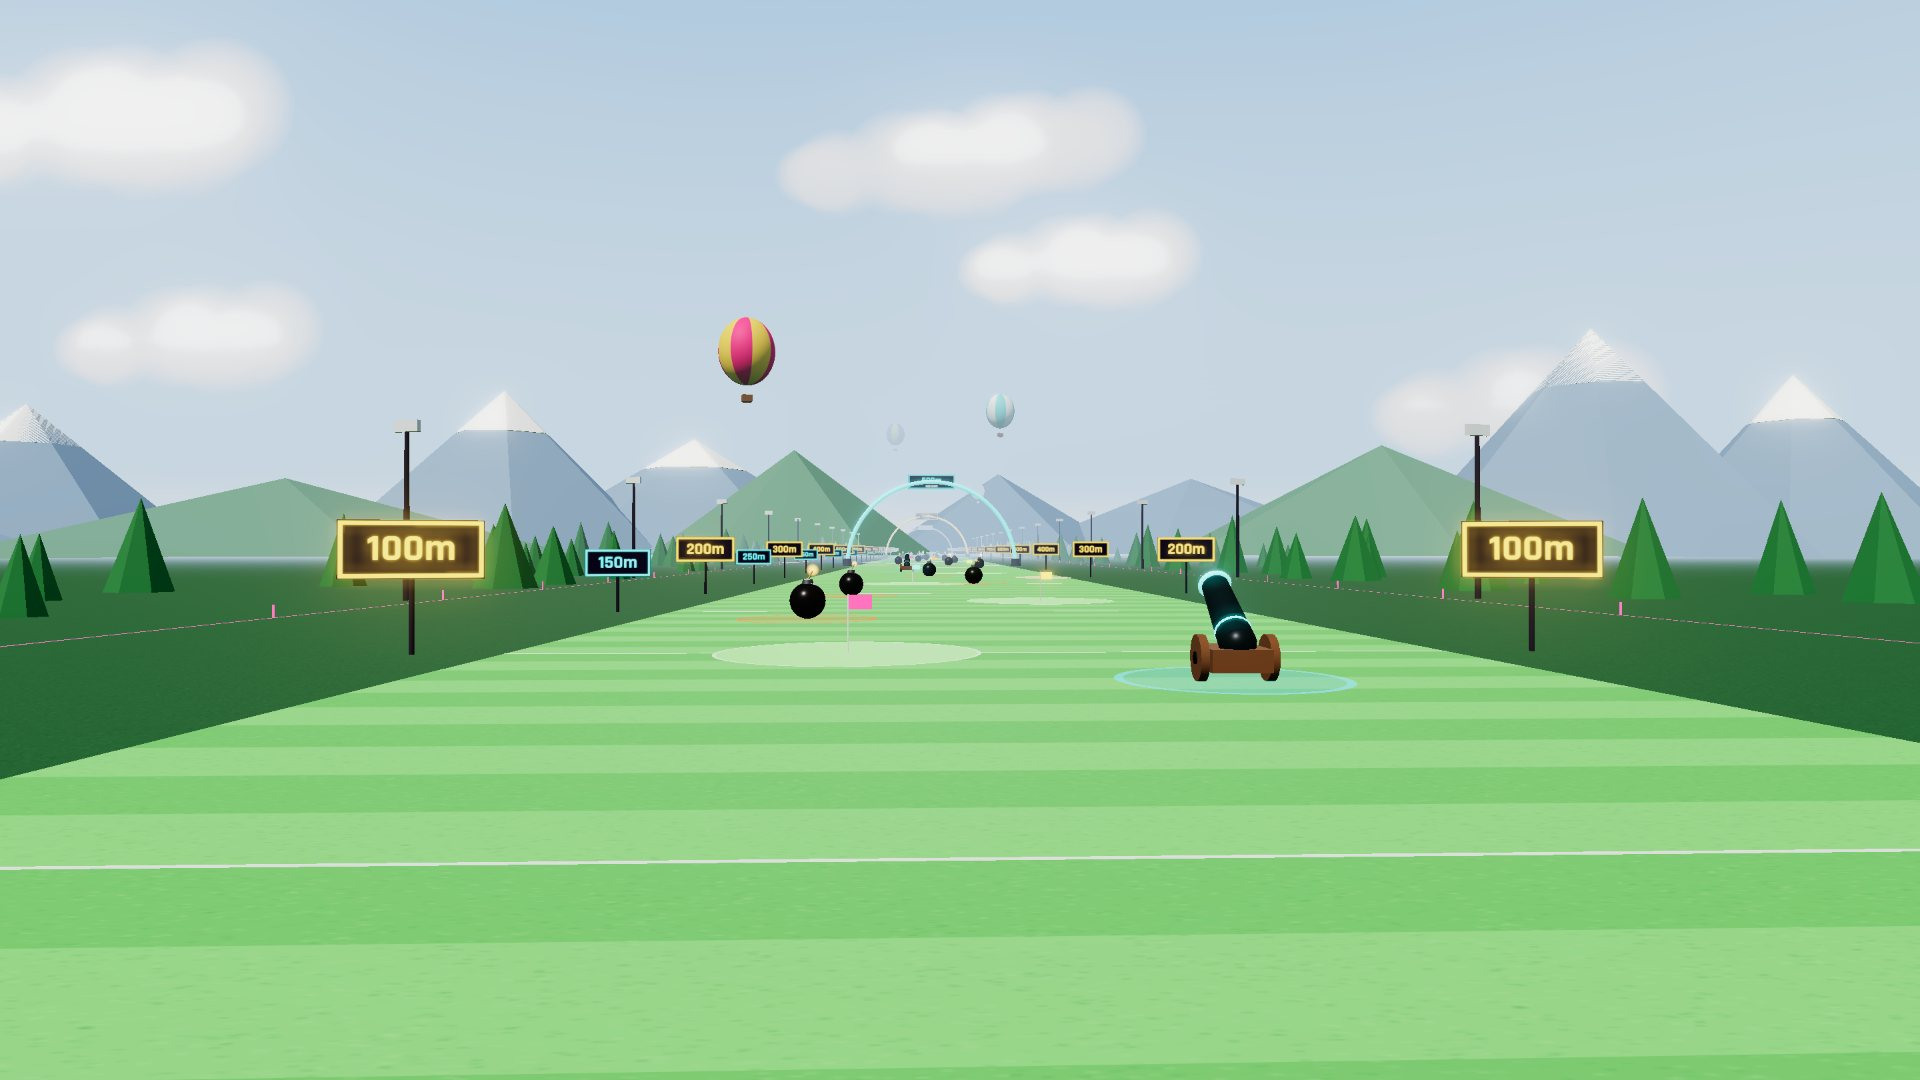
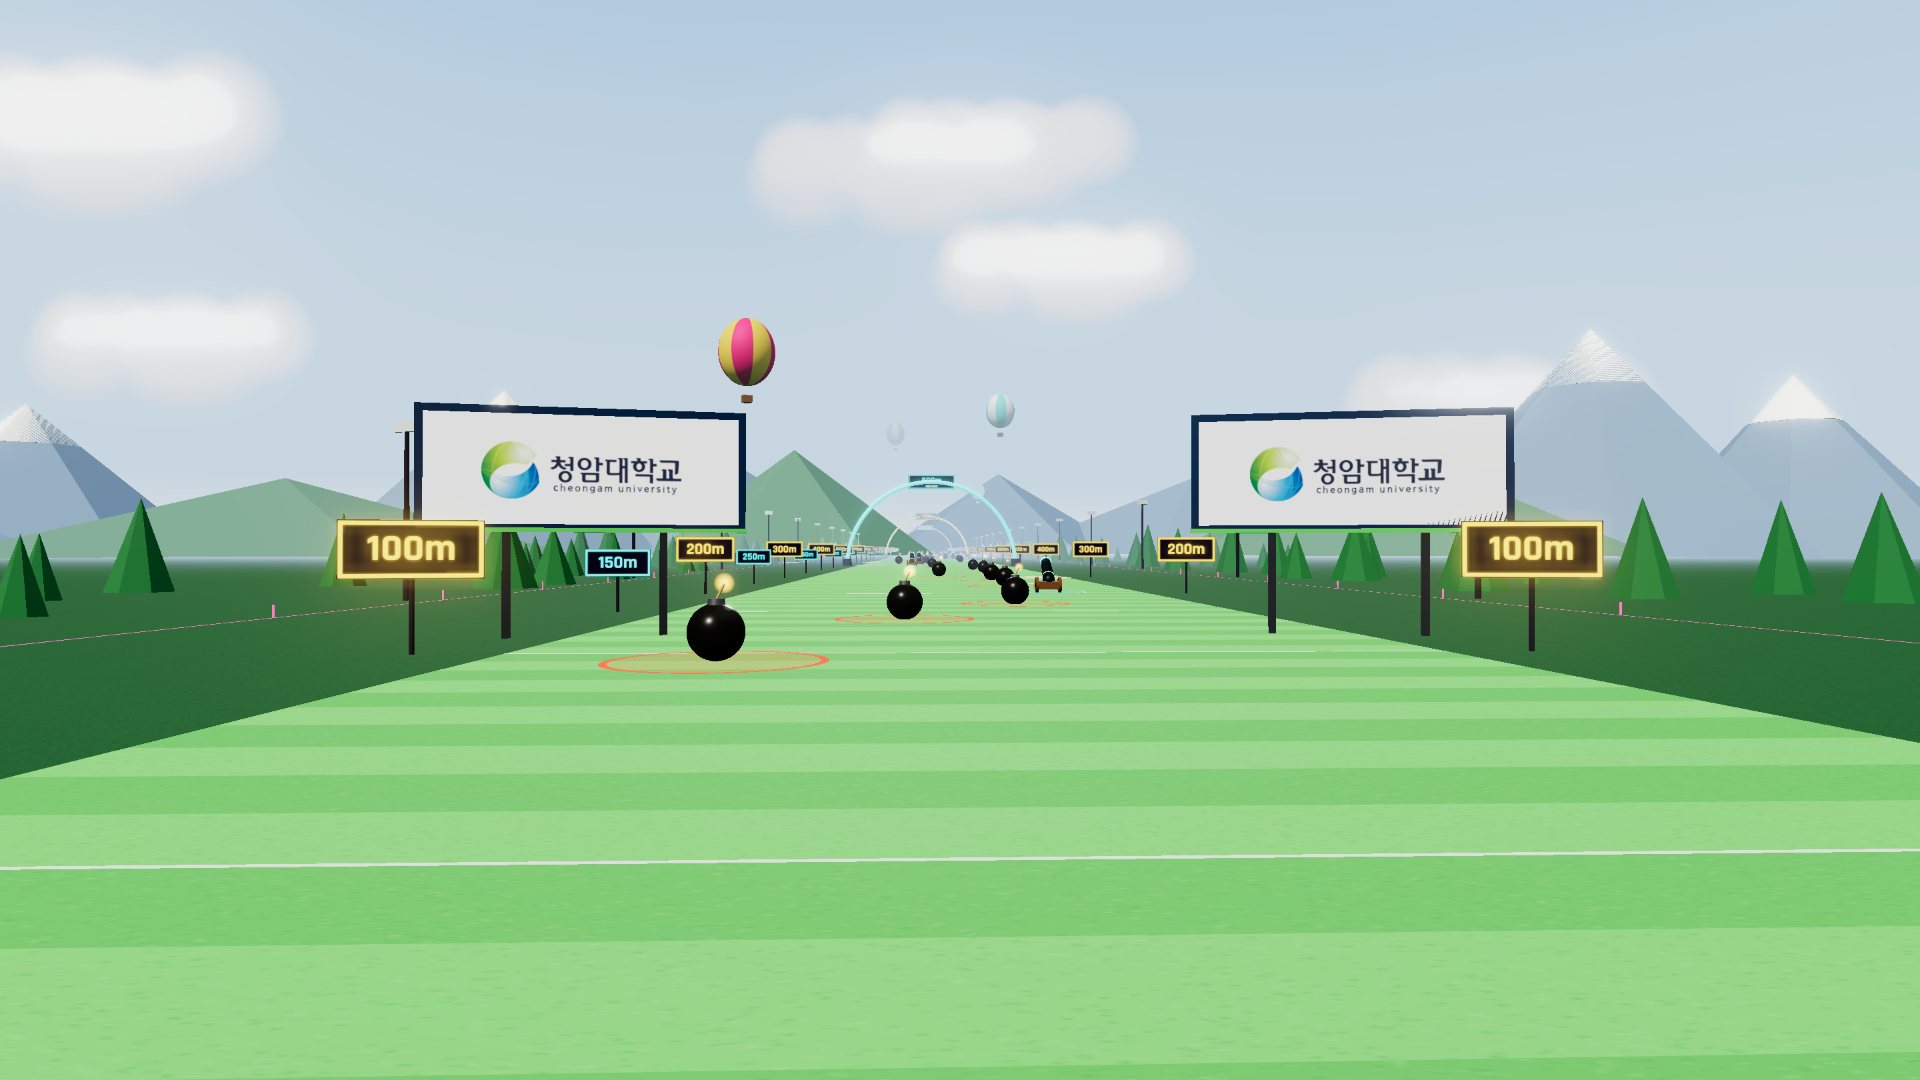
Golf game: Cheongam University billboards, 물리치료과 tee sign, no target greens
- two big 청암대학교 logo billboards on both sides of the fairway (img/cheongam-logo.png)
- slanted 물리치료과 ground sign just in front of the tee
- removed the target greens with flags; 1.3× more bombs/cannons (gap 27–50 m)
- banner background re-captured with the billboards; sw cache v37

diff --git a/games/LongDrive/view3d.js b/games/LongDrive/view3d.js
@@ -194,7 +194,7 @@ mat.position.set(-.45, .015, .1); mat.receiveShadow = true; scene.add(mat);
   tee.position.set(0, .05, 0); scene.add(tee);
 }
 
-/* ── 거리 표지판 · 목표 그린 · 나무 · 조명탑 ─────────────────────── */
+/* ── 거리 표지판 · 나무 · 조명탑 ─────────────────────── */
 {
   const postMat = new THREE.MeshStandardMaterial({ color: 0x241c38, roughness: .7 });
   for (let z = 50; z <= RANGE; z += 50) {
@@ -211,18 +211,6 @@ mat.position.set(-.45, .015, .1); mat.receiveShadow = true; scene.add(mat);
       const post = new THREE.Mesh(new THREE.CylinderGeometry(.18, .18, top, 6), postMat); post.position.set(side * 38, top / 2 - hh / 2, -z); scene.add(post);
     }
   }
-  // 목표 그린 + 깃발
-  const greenMat = new THREE.MeshStandardMaterial({ color: 0x7ef07a, roughness: .8 });
-  const ringMat = new THREE.MeshBasicMaterial({ color: 0xffffff, transparent: true, opacity: .55 });
-  const flagCols = [0xff2e88, 0xffd23f, 0x2de2e6, 0xb6ff3b, 0xff9f1c];
-  [[100, -9], [175, 12], [250, -6], [350, 9], [450, 0], [560, -10], [660, 11], [770, -5], [880, 8], [1000, 0], [1150, -9], [1300, 10], [1450, -4], [1600, 7], [1800, -8], [2000, 0]].forEach(([z, x], i) => {
-    const R = 9 + Math.min(i, 7);
-    const gr = new THREE.Mesh(new THREE.CircleGeometry(R, 40), greenMat); gr.rotation.x = -Math.PI / 2; gr.position.set(x, .025, -z); gr.receiveShadow = true; scene.add(gr);
-    const ring = new THREE.Mesh(new THREE.RingGeometry(R - .25, R, 48), ringMat); ring.rotation.x = -Math.PI / 2; ring.position.set(x, .03, -z); scene.add(ring);
-    const pole = new THREE.Mesh(new THREE.CylinderGeometry(.06, .06, 4, 6), new THREE.MeshStandardMaterial({ color: 0xeeeeee })); pole.position.set(x, 2, -z); scene.add(pole);
-    const flag = new THREE.Mesh(new THREE.PlaneGeometry(1.6, 1), new THREE.MeshBasicMaterial({ color: glow(flagCols[i % flagCols.length], 1.8), toneMapped: false, side: THREE.DoubleSide }));
-    flag.position.set(x + .8, 3.45, -z); scene.add(flag);
-  });
   // 나무
   let s = 5; const r = () => (s = (s * 16807) % 2147483647) / 2147483647;
   const treeGeo = new THREE.ConeGeometry(1, 1, 7); treeGeo.translate(0, .5, 0);
@@ -243,6 +231,40 @@ mat.position.set(-.45, .015, .1); mat.receiveShadow = true; scene.add(mat);
   }
 }
 
+/* ── 스폰서 광고: 청암대학교 광고판 2개 (페어웨이 양옆 높이) · 티 옆 "물리치료과" 바닥 간판 ── */
+{
+  const logo = new THREE.TextureLoader().load('img/cheongam-logo.png');   // 청암대학교 로고 (흰 바탕)
+  logo.colorSpace = THREE.SRGBColorSpace; logo.anisotropy = Math.min(8, renderer.capabilities.getMaxAnisotropy());
+  const frameMat = new THREE.MeshStandardMaterial({ color: 0x0d3b66, roughness: .5, metalness: .3 });
+  const trimMat = new THREE.MeshStandardMaterial({ color: 0x3fb54a, emissive: 0x3fb54a, emissiveIntensity: .35, roughness: .4 });
+  const legMat = new THREE.MeshStandardMaterial({ color: 0x3a3f4a, roughness: .6, metalness: .5 });
+  const W = 24, H = W * 183 / 502, BOTTOM = 9;
+  for (const side of [-1, 1]) {
+    const g = new THREE.Group(); g.position.set(side * 31, 0, -115); g.rotation.y = side * -.25; scene.add(g);
+    const frame = new THREE.Mesh(new THREE.BoxGeometry(W + 1.2, H + 1.2, .6), frameMat); frame.position.y = BOTTOM + H / 2; frame.castShadow = true; g.add(frame);
+    const trim = new THREE.Mesh(new THREE.BoxGeometry(W + 1.4, .35, .7), trimMat); trim.position.y = BOTTOM - .45; g.add(trim);
+    const face = new THREE.Mesh(new THREE.PlaneGeometry(W, H), new THREE.MeshBasicMaterial({ map: logo, color: new THREE.Color(.84, .84, .84) /* 블룸(빛 번짐) 기준보다 살짝 어둡게 → 로고가 또렷 */ }));
+    face.position.set(0, BOTTOM + H / 2, .31); g.add(face);
+    for (const lx of [-W * .25, W * .25]) { const leg = new THREE.Mesh(new THREE.BoxGeometry(.6, BOTTOM, .6), legMat); leg.position.set(lx, BOTTOM / 2, -.1); leg.castShadow = true; g.add(leg); }
+  }
+  // 티 옆 바닥 간판 (뒤로 비스듬히 누운 세모 간판)
+  const tex = canvasTex(512, 200, (c, w, h) => {
+    const gr = c.createLinearGradient(0, 0, 0, h); gr.addColorStop(0, '#16285e'); gr.addColorStop(1, '#0b1638');
+    c.fillStyle = gr; c.fillRect(0, 0, w, h);
+    c.fillStyle = '#2de2e6'; c.fillRect(0, 0, w, 10); c.fillRect(0, h - 10, w, 10);
+    c.textAlign = 'center'; c.textBaseline = 'middle';
+    c.fillStyle = '#ffffff'; c.font = '400 96px "Black Han Sans", sans-serif'; c.fillText('물리치료과', w / 2, h / 2 + 6);
+    c.fillStyle = 'rgba(45,226,230,.9)'; c.font = '700 22px Rajdhani, Arial, sans-serif'; c.fillText('CHEONGAM UNIV. PHYSICAL THERAPY', w / 2, h - 28);
+  });
+  const sg = new THREE.Group(); sg.position.set(-1.8, 0, -11); sg.rotation.y = .12; scene.add(sg);   // 타석 바로 앞 잔디 (공은 위로 넘어가요)
+  const SW = 3.2, SH = 1.25, tilt = .55;   // 폭 · 경사면 길이 · 뒤로 누운 각도
+  const d = Math.sin(tilt) * SH, h = Math.cos(tilt) * SH;   // 옆에서 본 세모: 앞 아래 (0,0) · 뒤 아래 (-d,0) · 뒤 위 (-d,h)
+  const wedge = new THREE.Shape([new THREE.Vector2(0, 0), new THREE.Vector2(-d, 0), new THREE.Vector2(-d, h)]);
+  const body = new THREE.Mesh(new THREE.ExtrudeGeometry(wedge, { depth: SW, bevelEnabled: false }), new THREE.MeshStandardMaterial({ color: 0x0b1638, roughness: .6 }));
+  body.rotation.y = -Math.PI / 2; body.position.x = SW / 2; body.castShadow = true; sg.add(body);
+  const face = new THREE.Mesh(new THREE.PlaneGeometry(SW, SH), new THREE.MeshBasicMaterial({ map: tex, toneMapped: false }));
+  face.rotation.x = -tilt; face.position.set(0, h / 2 + Math.sin(tilt) * .012, -d / 2 + Math.cos(tilt) * .012); sg.add(face);
+}
 /* ── 멀리 있는 볼거리: 500m 마다 네온 아치 · 연못 · 열기구 ─────────────── */
 {
   const gateCols = { 500: 0x2de2e6, 1000: 0xffd23f, 1500: 0xff2e88, 2000: 0xb6ff3b };

diff --git a/games/LongDrive/index.html b/games/LongDrive/index.html
@@ -431,7 +431,7 @@ let ball = null, trail = [], lastShot = null, wind = { x: 0, z: 0 }, rollTo = nu
  *    폭탄: 펑! 위로 튀면서 앞으로 더 날아가요
  *    대포: 공을 빨아들여 똑바로 멀리 쏴 줘요 (드물지만 세요, 옆으로 휜 공도 가운데로) */
 const BOOST_FROM = 70, BOOST_TO = 1600;      // 이 거리 사이에 깔아요 (m)
-const BOOST_GAP = [35, 65];                  // 부스터 사이 간격 (m)
+const BOOST_GAP = [27, 50];                  // 부스터 사이 간격 (m) — 2026-11-18 1.3배 많게 (예전 35~65)
 const CANNON_RATE = .2;                      // 대포가 나올 확률
 const BOMB = { r: 7, up: [18, 25], fwd: [16, 24] };
 const CANNON = { r: 6.3, speed: [46, 56], deg: 33 };

diff --git a/sw.js b/sw.js
@@ -9,7 +9,7 @@
  * its body with a worker that clears CACHE and calls self.registration.unregister(),
  * and drop the register line in highgo.html.
  */
-const CACHE = 'samgongyuk-v36';   // bump on every game update so phones drop the old copy
+const CACHE = 'samgongyuk-v37';   // bump on every game update so phones drop the old copy
 const HUB = /\/(highgo\.html|index\.html)?$/;
 
 self.addEventListener('install', () => self.skipWaiting());
